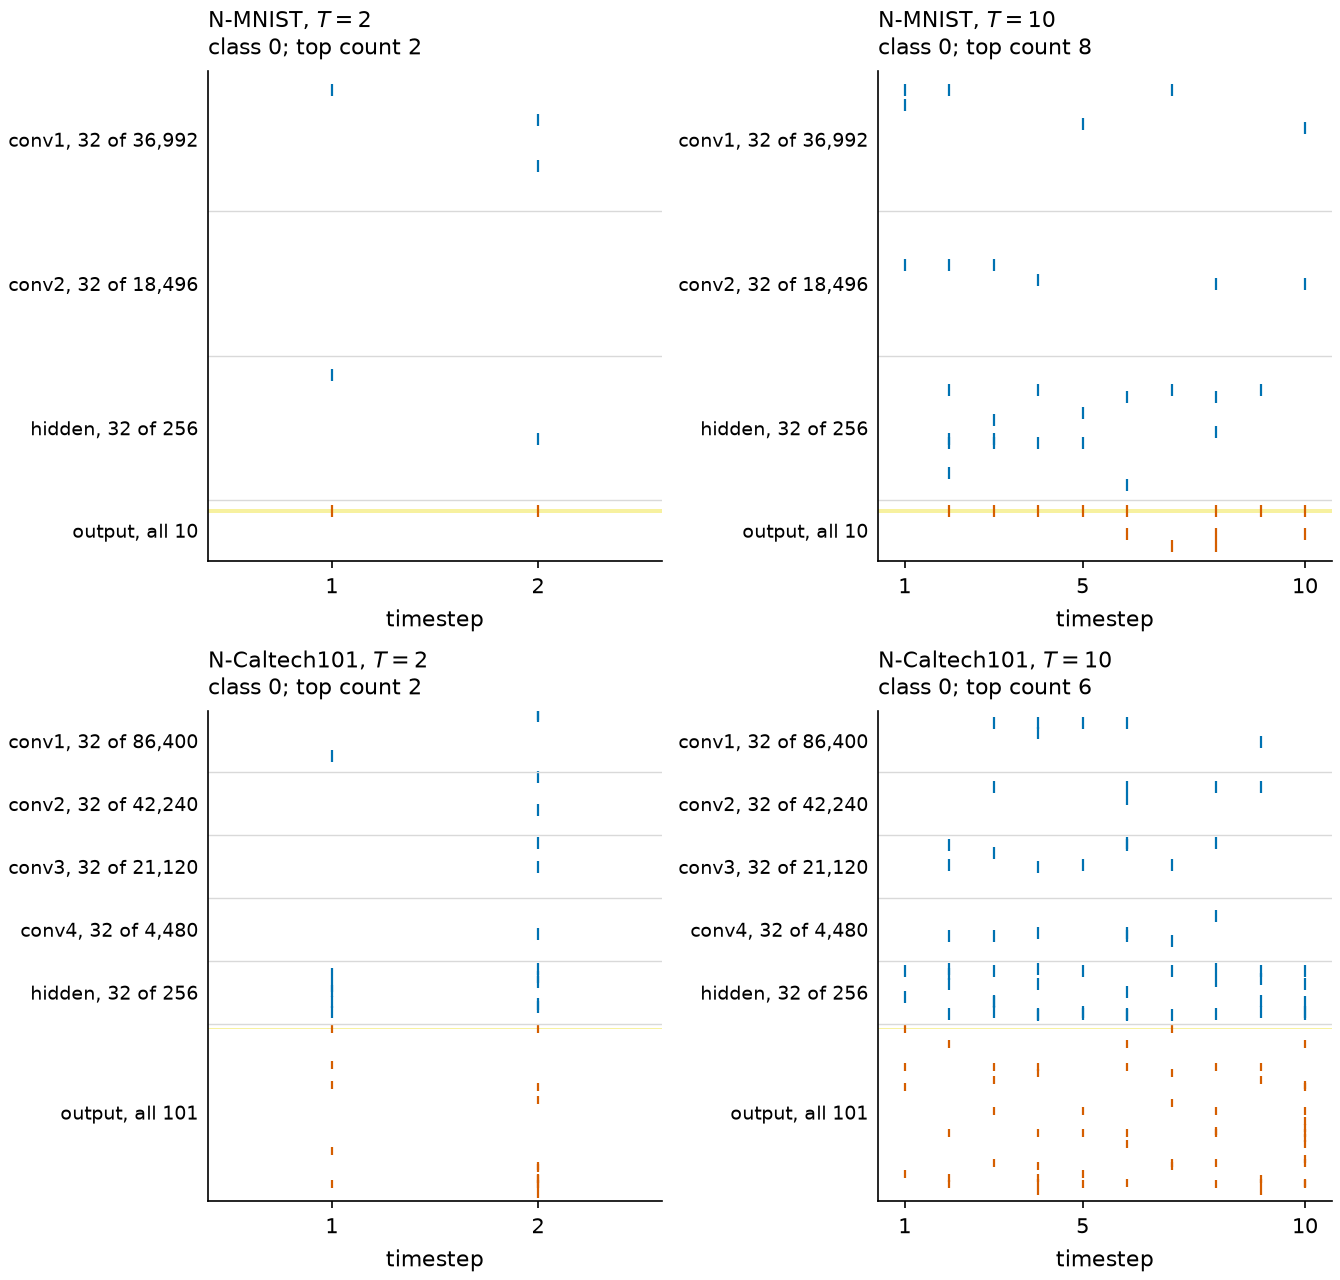
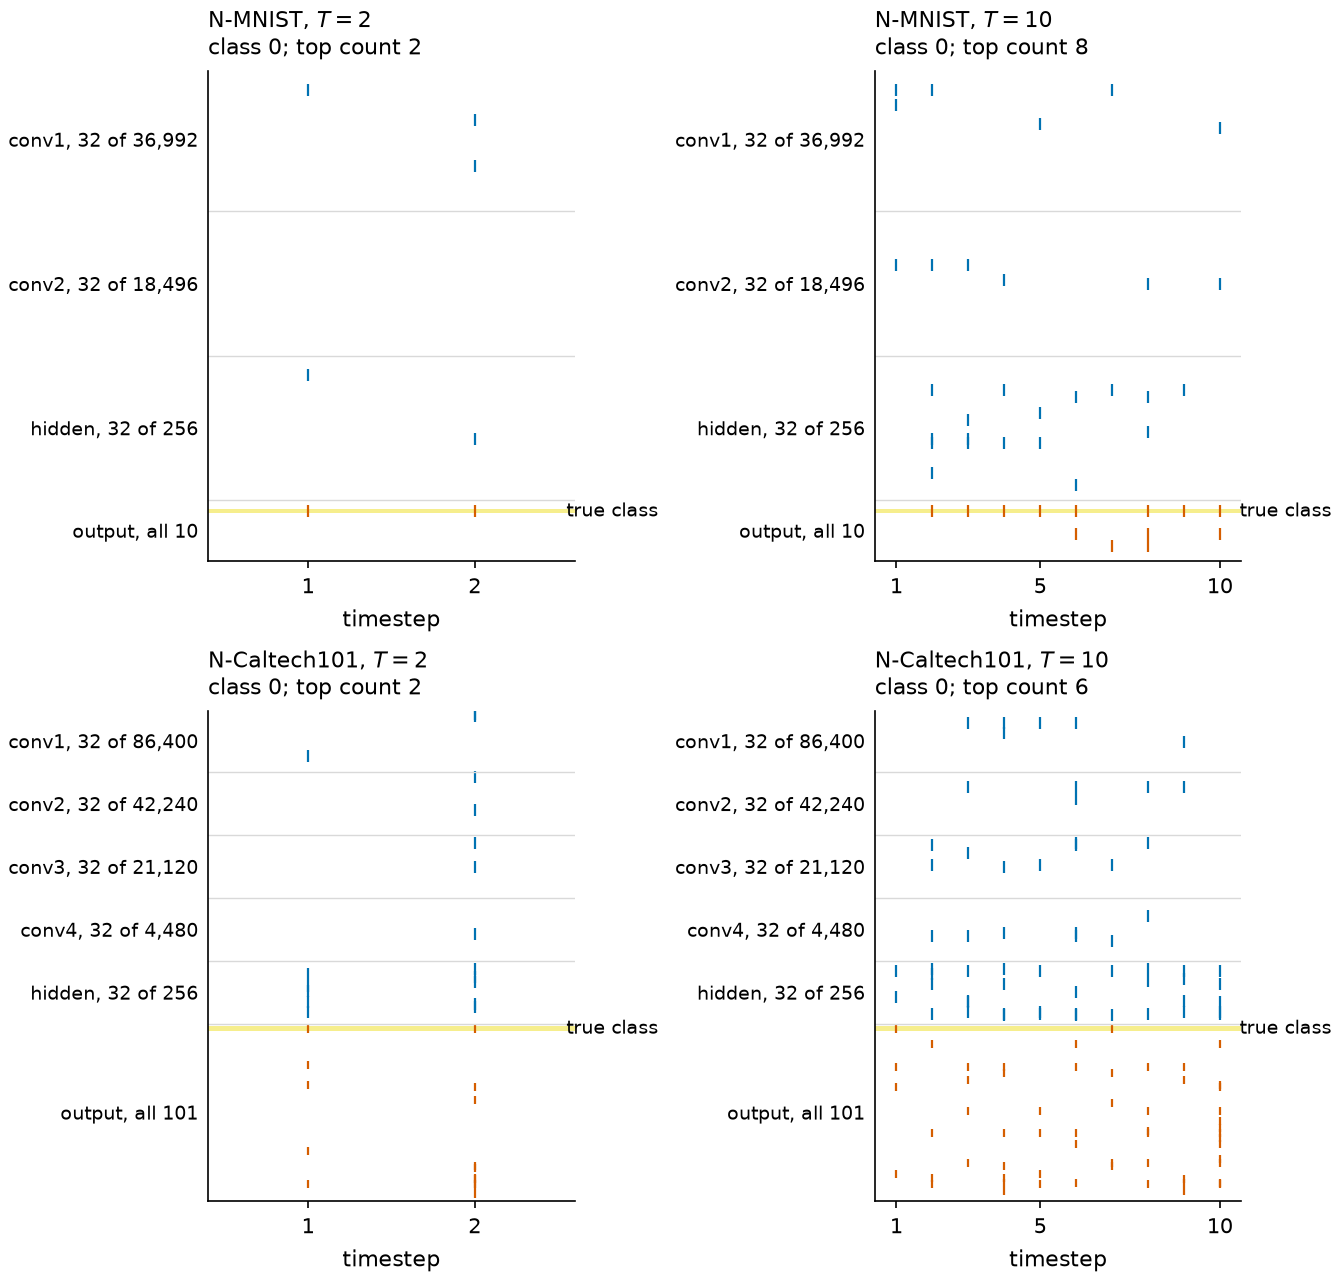
Figures: true class labelled in the rasters; input frames of N-Caltech101 named as block means

diff --git a/spikecalib/paper_figures.py b/spikecalib/paper_figures.py
@@ -191,7 +191,7 @@ def figure_architecture(results, pdf_dir, png_dir):
                     arrowprops=dict(arrowstyle="-|>", lw=0.7, color=OKABE_ITO["black"], mutation_scale=7))
 
     y0, h = 14, 15
-    box(0.3, y0, 12.4, h, "event frames", "$T$ frames\n2 polarities\n34×34 or 45×60\nevent counts", "#F2F2F2")
+    box(0.3, y0, 12.4, h, "event frames", "$T$ frames\n2 polarities\n34×34 counts or\n45×60 block means", "#F2F2F2")
     arrow(13.0, 14.0, y0 + h / 2)
     box(14.3, y0, 16.7, h, "block × $K$", "conv 3×3, pad 1\nbatch norm\nLIF\nmax-pool 2×2", "#DCEBF5")
     ax.text(22.5, y0 - 1.0, "$K=2$: 32, 64 channels\n$K=4$: 32, 64, 128, 128", ha="center", va="top", fontsize=7)
@@ -367,7 +367,11 @@ def figure_rasters(results, pdf_dir, png_dir):
             ax.scatter(ts_ + 1, y + ns_, marker="|", s=9 if n > 40 else 16, color=col, lw=0.8)
             if name == "output":
                 lab = r["label"]
-                ax.axhspan(y + lab - 0.5, y + lab + 0.5, color=OKABE_ITO["yellow"], alpha=0.5, lw=0, zorder=0)
+                band = 0.5 if n <= 20 else 1.5   # wider band where there are many output rows
+                ax.axhspan(y + lab - band, y + lab + band, color=OKABE_ITO["yellow"], alpha=0.6, lw=0, zorder=0)
+                ax.annotate("true class", xy=(T + 0.55, y + lab), xytext=(T + 0.55, y + lab),
+                            fontsize=7, color=OKABE_ITO["black"], va="center", ha="left",
+                            annotation_clip=False)
             yt.append(y + n / 2)
             yl.append(f"{name}, {n} of {L['n_neurons']:,}" if name != "output" else f"output, all {n}")
             y += n + 6
